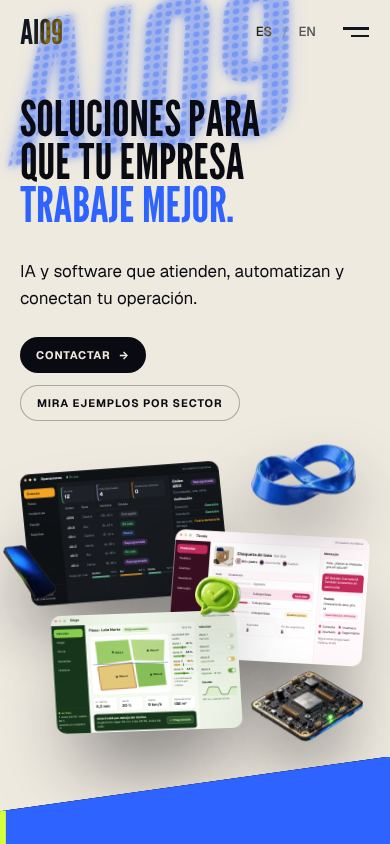
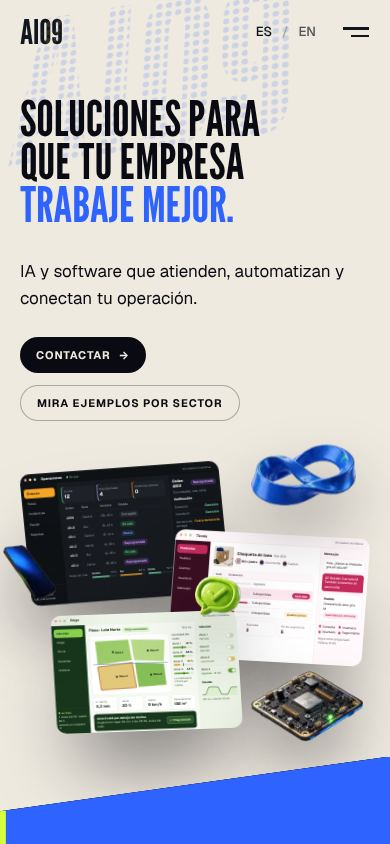
Give every sector the same sizes and fade the hero wordmark
- Hero: the LED wordmark is dots only, without the halo, at 18% opacity.
- LED names: one font size for all sectors and products, chosen so the
  longest fits its column, instead of fitting each word on its own.
- Titles and one-liners reserve two lines, so the windows of each pair
  start at the same height and the buttons line up.
- The divider between columns is an inset shadow rather than a border,
  so both columns and their windows are exactly the same width.
- Tests check name, title and window sizes at five width/language
  combinations (90 checks).

Claude-Session: https://claude.ai/code/session_01EWRUrFV6nYxUSpwozbPekn

Changed region(s): [[0.0, 0.0, 0.7692, 0.2156]]

diff --git a/tests/functional.js b/tests/functional.js
@@ -52,6 +52,19 @@ const check = (name, ok, detail = '') => { results.push(ok); console.log(`${ok ?
   const sv = await p.evaluate(() => [...document.querySelectorAll('#services article')].map(n => { const r = n.getBoundingClientRect(); return [Math.round(r.top + scrollY), Math.round(r.left)]; }));
   check('services sit two to a row', sv.length === 4 && sv[0][0] === sv[1][0] && sv[2][0] === sv[3][0] && sv[0][0] < sv[2][0] && sv[0][1] < sv[1][1], JSON.stringify(sv));
 
+  // One standard of sizes for every sector and product
+  const sizes = (pg) => pg.evaluate(() => [...document.querySelectorAll('#industries article, #devices article, #services article')].map((a) => { const led = a.querySelector('p[aria-hidden] span'); const st = getComputedStyle(a); const ar = a.getBoundingClientRect(); const fr = a.querySelector('[style*="box-shadow"]').getBoundingClientRect(); return { name: parseFloat(getComputedStyle(led).fontSize), title: parseFloat(getComputedStyle(a.querySelector('h3')).fontSize), room: ar.right - parseFloat(st.paddingRight) - led.getBoundingClientRect().right, row: Math.round(ar.top + scrollY), win: [Math.round(fr.top + scrollY), Math.round(fr.width), Math.round(fr.height)].join('/') }; }));
+  const consistent = (list) => { const rows = {}; for (const x of list) (rows[x.row] = rows[x.row] || []).push(x.win); return { names: new Set(list.map((x) => x.name)).size, titles: new Set(list.map((x) => x.title)).size, room: Math.min(...list.map((x) => x.room)), wins: new Set(list.map((x) => x.win.split('/').slice(1).join('x'))).size, rows: Object.values(rows).every((v) => v.length === 2 && v[0] === v[1]) }; };
+  for (const [w, h, lang] of [[1440, 900, 'es'], [375, 667, 'es'], [820, 1180, 'es'], [1440, 900, 'en'], [375, 667, 'en']]) {
+    const c2 = await b.newContext({ viewport: { width: w, height: h }, reducedMotion: 'reduce' }); const q = await c2.newPage(); watch(q);
+    await q.goto(`${base}/${lang}`, { waitUntil: 'networkidle' }); await q.waitForTimeout(500);
+    const k = consistent(await sizes(q));
+    check(`${w}px ${lang}: every LED name is the same size and fits its column`, k.names === 1 && k.room >= 0, `sizes ${k.names}, tightest fit ${Math.round(k.room)}px`);
+    check(`${w}px ${lang}: every title is the same size`, k.titles === 1);
+    check(`${w}px ${lang}: every window is the same size and each pair lines up`, k.wins === 1 && k.rows, `window sizes ${k.wins}`);
+    await c2.close();
+  }
+
   // Entrances: a column below the fold is hidden until it scrolls in, then shown for good
   await p.goto('about:blank'); await p.goto(base + '/es', { waitUntil: 'networkidle' }); await p.waitForTimeout(600);
   const revealState = () => p.evaluate(() => document.querySelector('article[aria-labelledby="scene-logistics"] [data-reveal]').dataset.reveal);

diff --git a/src/components/impact/Hero.tsx b/src/components/impact/Hero.tsx
@@ -90,20 +90,13 @@ export function Hero({ dict, locale }: { dict: Dictionary; locale: Locale }) {
           }
           className="display absolute -top-[3vw] left-[1vw] origin-[35%_45%] text-[60vw] leading-[0.8] whitespace-nowrap select-none [transform-style:preserve-3d]"
         >
-          {/* A soft blue halo that follows the outline of each letter… */}
-          <span
-            style={{ textShadow: "0 0 0.03em rgb(47 99 255 / 0.32), 0 0 0.08em rgb(47 99 255 / 0.16)" }}
-            className="absolute inset-0 block text-transparent motion-safe:animate-[rise_1.6s_ease-out_1.2s_both]"
-          >
-            AIO9
-          </span>
-          {/* …around one layer of blue LED dots, which switches on with a flicker while a band of light sweeps across. */}
+          {/* One faint layer of blue LED dots: it switches on with a flicker while a band of light sweeps across. */}
           <span
             style={{
               backgroundImage: "linear-gradient(105deg, #2f63ff 40%, #cfe0ff 50%, #2f63ff 60%)",
               backgroundSize: "300% 100%",
             }}
-            className="dots relative block bg-clip-text text-transparent opacity-35 [mask-size:10px_10px] [background-position:-40%_0] motion-safe:animate-[led-on_1.3s_linear_0.9s_both,led-sweep_2.2s_var(--ease-signal)_1.3s_both]"
+            className="dots relative block bg-clip-text text-transparent opacity-[0.18] [mask-size:10px_10px] [background-position:-40%_0] motion-safe:animate-[led-on_1.3s_linear_0.9s_both,led-sweep_2.2s_var(--ease-signal)_1.3s_both]"
           >
             AIO9
           </span>

diff --git a/src/components/impact/LedWord.tsx b/src/components/impact/LedWord.tsx
@@ -9,7 +9,8 @@ import { usePrefersReducedMotion } from "@/lib/usePrefersReducedMotion";
  * A sector name drawn as a panel of LED dots in its own colour. As it
  * travels up the screen a band of light sweeps across the dots, they glow
  * brighter around the middle, and the word drifts slightly sideways.
- * Decorative: the real name is always in the text next to it.
+ * Every name is set at the same size, chosen so the longest one fits its
+ * column. Decorative: the real name is always in the text next to it.
  */
 export function LedWord({ word, color }: { word: string; color: string }) {
   const ref = useRef<HTMLParagraphElement>(null);
@@ -31,20 +32,17 @@ export function LedWord({ word, color }: { word: string; color: string }) {
       `drop-shadow(0 0 ${(v * 0.09).toFixed(3)}em ${color}) drop-shadow(0 0 ${(v * 0.3).toFixed(3)}em ${color})`,
   );
   const x = useTransform(scrollYProgress, [0, 1], ["3%", "-3%"]);
-  // As large as the design allows, but never wider than its column.
-  const fontSize = `min(clamp(1.75rem, 11vw, 8.5rem), ${(41 / (word.length * 0.4)).toFixed(2)}vw)`;
 
   return (
     <m.p
       ref={ref}
       aria-hidden
       style={{
-        fontSize,
         ...(reduced
           ? { filter: `drop-shadow(0 0 0.12em ${color})` }
           : { filter, x }),
       }}
-      className="display flex min-h-[10vw] items-end whitespace-nowrap select-none lg:min-h-0"
+      className="display text-[9.4vw] whitespace-nowrap select-none lg:text-[min(9.6vw,9.75rem)]"
     >
       <m.span
         style={{

diff --git a/src/components/impact/DemoScene.tsx b/src/components/impact/DemoScene.tsx
@@ -131,13 +131,13 @@ export function DemoScene({
         <Reveal from={side} delay={wait + 160}>
           <h3
             id={`scene-${data.id}`}
-            className="display mt-3 pr-3 text-[clamp(1.5rem,3.9vw,4rem)] text-balance lg:mt-5"
+            className="display mt-3 min-h-[2lh] pr-3 text-[clamp(1.5rem,3.9vw,4rem)] text-balance lg:mt-5"
           >
             {data.title}
           </h3>
         </Reveal>
         <Reveal from="up" delay={wait + 280}>
-          <p className="mt-2 max-w-[46ch] pr-3 text-[13px] leading-snug text-fog lg:mt-4 lg:text-base lg:leading-relaxed">
+          <p className="mt-2 min-h-[2lh] max-w-[46ch] pr-3 text-[13px] leading-snug text-fog lg:mt-4 lg:min-h-[1lh] lg:text-base lg:leading-relaxed">
             {data.description}
           </p>
         </Reveal>
@@ -179,7 +179,7 @@ export function DemoScene({
 /** Rows of two columns with a hairline between them, on every screen size. */
 export function Pairs({ children }: { children: ReactNode }) {
   return (
-    <div className="mx-auto grid max-w-[1700px] grid-cols-[minmax(0,1fr)_minmax(0,1fr)] [&>*]:border-t [&>*]:border-dim [&>*:nth-child(even)]:border-l">
+    <div className="mx-auto grid max-w-[1700px] grid-cols-[minmax(0,1fr)_minmax(0,1fr)] [&>*]:border-t [&>*]:border-dim [&>*:nth-child(even)]:shadow-[inset_1px_0_0_var(--color-dim)]">
       {children}
     </div>
   );

diff --git a/src/components/impact/ServiceScenes.tsx b/src/components/impact/ServiceScenes.tsx
@@ -116,7 +116,7 @@ export function ServiceScenes({
                   >
                     {item.name}
                   </h3>
-                  <p className="mt-2 max-w-[48ch] text-[13px] leading-snug text-fog lg:mt-4 lg:text-base lg:leading-relaxed">
+                  <p className="mt-2 min-h-[3lh] max-w-[48ch] text-[13px] leading-snug text-fog lg:mt-4 lg:min-h-[1lh] lg:text-base lg:leading-relaxed">
                     {item.text}
                   </p>
                   <a

diff --git a/src/app/globals.css b/src/app/globals.css
@@ -95,10 +95,10 @@
     6%,
     18%,
     32% {
-      opacity: 0.5;
+      opacity: 0.3;
     }
     100% {
-      opacity: 0.35;
+      opacity: 0.18;
     }
   }
   @keyframes led-sweep {

diff --git a/docs/ARCHITECTURE.md b/docs/ARCHITECTURE.md
@@ -95,8 +95,16 @@ escritorio y 11 en móvil.
 
 - `Pairs` (en `DemoScene.tsx`) es la rejilla de dos columnas con línea
   divisoria, **en todos los tamaños de pantalla**.
-- `DemoScene` es la columna de un sector: nombre en puntos LED (`LedWord`, que
-  se ajusta al ancho de su columna), título, una línea y su ventana.
+- `DemoScene` es la columna de un sector: nombre en puntos LED (`LedWord`),
+  título, una línea y su ventana.
+- **Un solo estándar de tamaños.** Todos los nombres LED usan el mismo tamaño
+  de letra (9.4vw en móvil, 9.6vw en escritorio con tope), elegido para que el
+  más largo quepa en su columna; no se ajusta por palabra. Título y línea
+  reservan dos renglones, así las ventanas de cada pareja arrancan a la misma
+  altura. Todas las ventanas miden lo mismo. La línea divisoria es una sombra
+  interior, no un borde, para no quitar 1 px a la columna derecha. Las pruebas
+  lo comprueban en cinco combinaciones de ancho e idioma: si se añade un
+  nombre más largo que "Bienes raíces", fallarán.
 - `LiveWindow` hace que la ventana funcione sola: reproduce sus pasos mientras
   está en pantalla, mantiene el resultado un momento y vuelve a empezar
   (`useDemoTimeline` con `loopAfter`). No hay texto de pasos ni controles. Con

diff --git a/docs/TESTING.md b/docs/TESTING.md
@@ -7,7 +7,7 @@ Ejecutadas sobre el build de producción (`npm run build` + `npm run start`).
 | `npm run lint` | Sin errores |
 | `npx tsc --noEmit` | Sin errores |
 | `npm run build` | Correcto (`/es` y `/en` prerenderizadas) |
-| Pruebas funcionales (`tests/functional.js`) | 75 de 75 |
+| Pruebas funcionales (`tests/functional.js`) | 90 de 90 |
 | Errores de consola en 5 tamaños, ES y EN | Ninguno |
 | Scroll horizontal accidental | Ninguno (375, 820, 1280, 1440, 1920 px) |
 
@@ -19,6 +19,9 @@ Ejecutadas sobre el build de producción (`npm run build` + `npm run start`).
   el foco; cada uno de sus cinco enlaces lleva a su sección.
 - Diseño: ninguna sección queda fija; la página mide menos de 16 pantallas;
   cada pareja aparece lado a lado, en escritorio y en móvil.
+- Tamaños: todos los nombres LED tienen el mismo tamaño y caben en su columna;
+  todos los títulos tienen el mismo tamaño; todas las ventanas miden lo mismo
+  y cada pareja queda alineada (1440, 820 y 375 px; español e inglés).
 - Entradas: una columna por debajo de la pantalla espera oculta y se muestra
   al llegar a ella.
 - Ventanas: recorren todos sus pasos solas y vuelven a empezar; no hay texto
